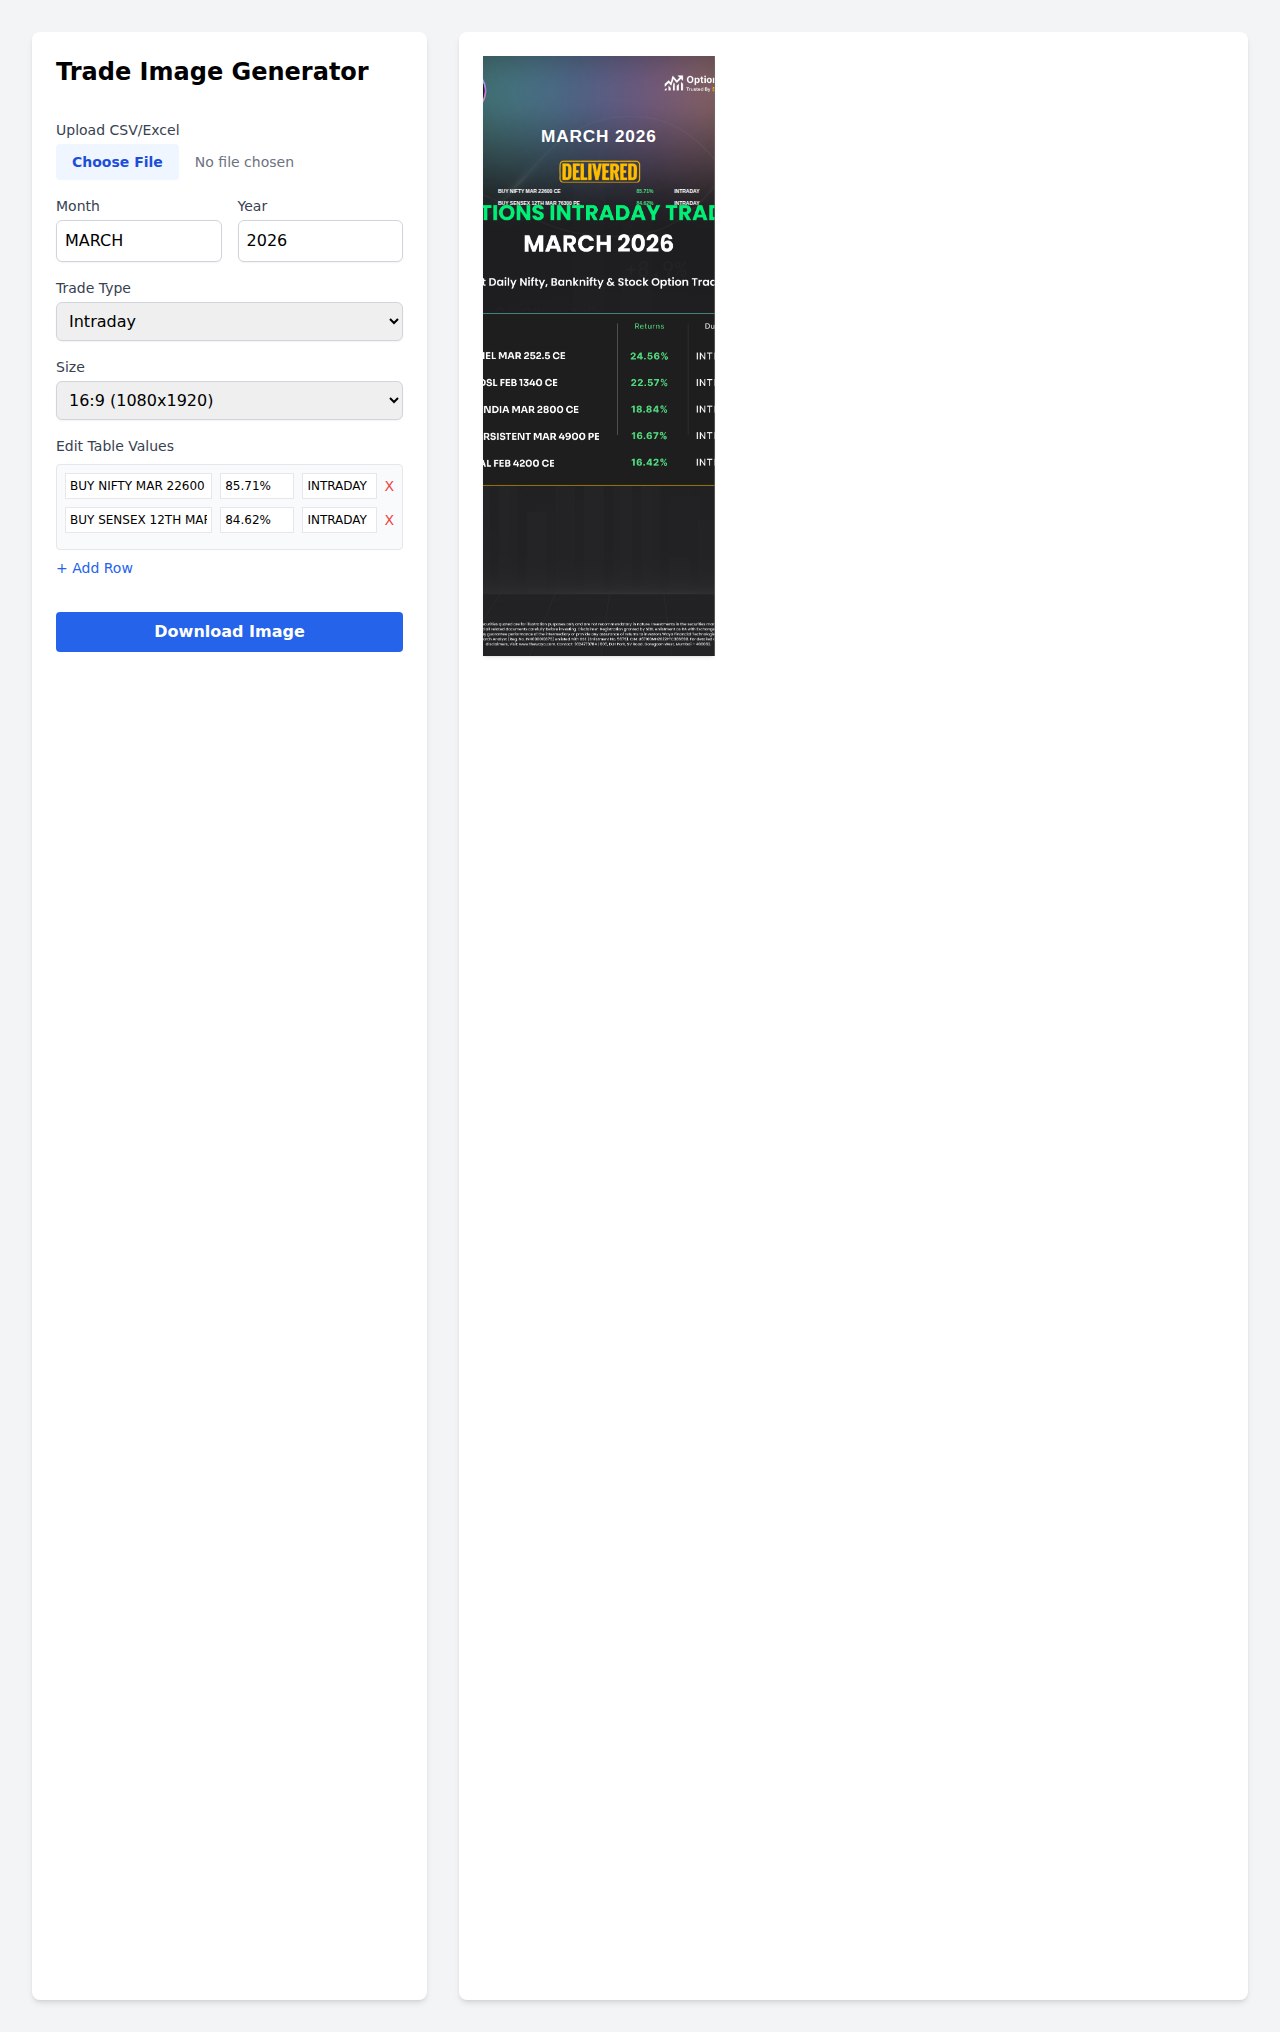
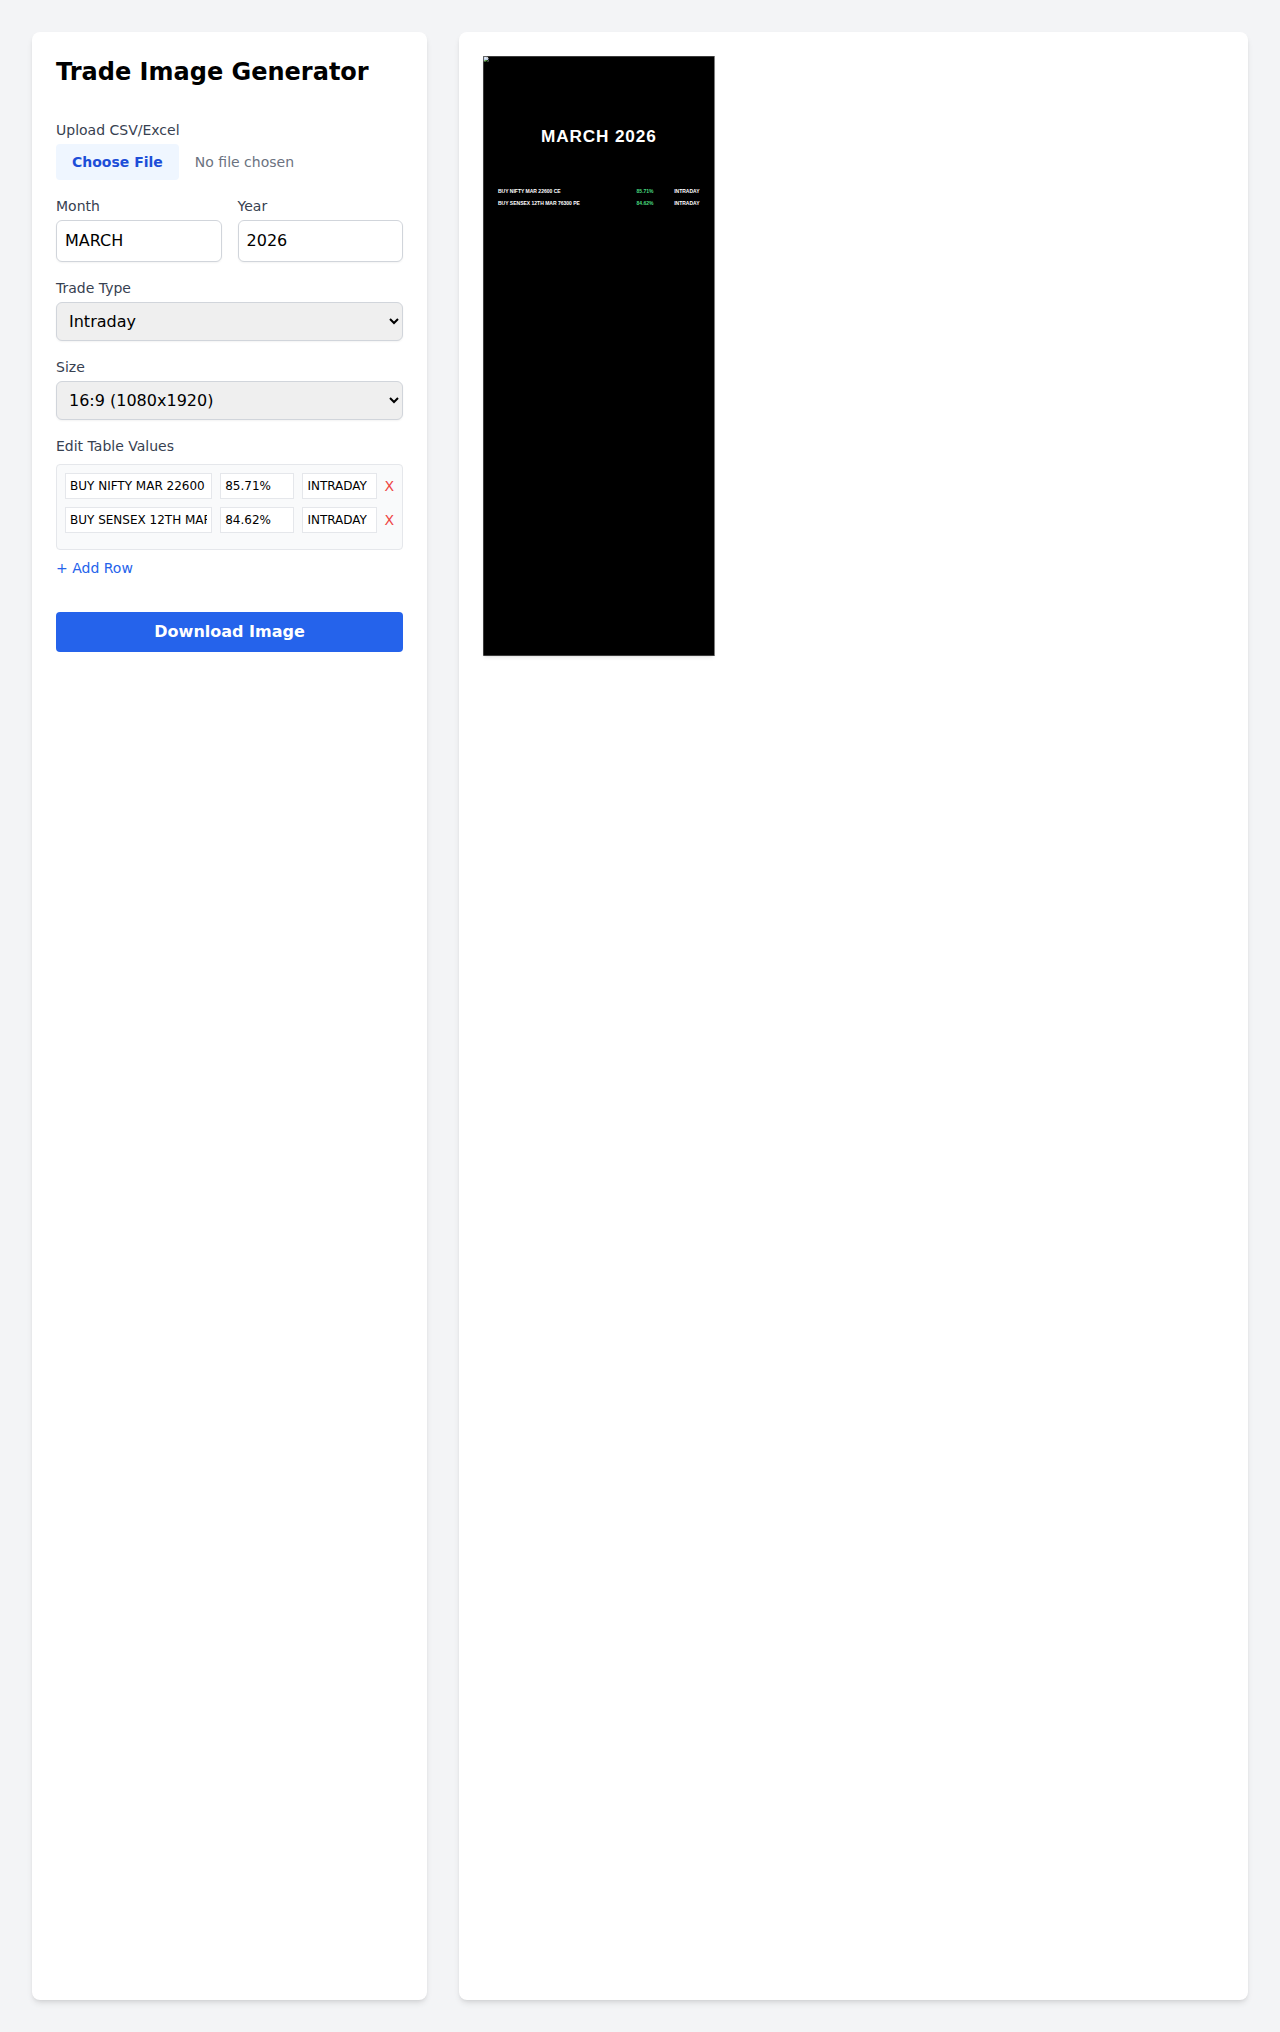
feat: Replace local templates with EdgeOne CDN URLs

Changed region(s): [[0.375, 0.0, 0.5625, 0.341]]

diff --git a/index.html b/index.html
@@ -80,7 +80,7 @@
     <!-- Preview Area -->
     <div class="w-full md:w-2/3 bg-white p-6 rounded-lg shadow-md overflow-auto flex justify-center items-center bg-gray-200">
         <div id="previewContainer" class="relative overflow-hidden shadow-lg bg-black" style="width: 1200px; height: 628px; transform: scale(0.6); transform-origin: top left;">
-            <img id="bgImage" src="templates/HZ 4.png" class="absolute top-0 left-0 w-full h-full object-cover">
+            <img id="bgImage" crossorigin="anonymous" src="https://concerned-green-tg5udyjc7d.edgeone.app/HZ%204.png" class="absolute top-0 left-0 w-full h-full object-cover">
 
             <!-- Dynamic Text Overlay -->
             <div id="monthYearText" class="absolute text-center font-bold text-white uppercase tracking-wider" style="top: 30%; left: 0; right: 0; font-size: 40px; font-family: 'Arial', sans-serif;">
@@ -101,28 +101,28 @@
     <script>
         const TEMPLATE_MAP = {
             "HZ": {
-                "1200x628": "templates/HZ 4.png",
-                "1080x1080": "templates/HZ -2.png",
-                "1080x1350": "templates/HZ-1.png",
-                "1080x1920": "templates/HZ-1, 9-16.png"
+                "1200x628": "https://concerned-green-tg5udyjc7d.edgeone.app/HZ%204.png",
+                "1080x1080": "https://concerned-green-tg5udyjc7d.edgeone.app/HZ%20-2.png",
+                "1080x1350": "https://concerned-green-tg5udyjc7d.edgeone.app/HZ-1.png",
+                "1080x1920": "https://concerned-green-tg5udyjc7d.edgeone.app/HZ-1,%209-16.png"
             },
             "INTRA": {
-                "1200x628": "templates/OP-3-INTRA.png",
-                "1080x1080": "templates/OP-2-INTRA.png",
-                "1080x1350": "templates/OP-1-INTRA.png",
-                "1080x1920": "templates/HZ-1, 9-16-1.png"
+                "1200x628": "https://concerned-green-tg5udyjc7d.edgeone.app/OP-3-INTRA.png",
+                "1080x1080": "https://concerned-green-tg5udyjc7d.edgeone.app/OP-2-INTRA.png",
+                "1080x1350": "https://concerned-green-tg5udyjc7d.edgeone.app/OP-1-INTRA.png",
+                "1080x1920": "https://concerned-green-tg5udyjc7d.edgeone.app/HZ-1,%209-16-1.png"
             },
             "BTST": {
-                "1200x628": "templates/OP-2-BTST-1.png",
-                "1080x1080": "templates/OP-2-BTST.png",
-                "1080x1350": "templates/OP-1-BTST.png",
-                "1080x1920": "templates/HZ-1, 9-16-2.png"
+                "1200x628": "https://concerned-green-tg5udyjc7d.edgeone.app/OP-2-BTST-1.png",
+                "1080x1080": "https://concerned-green-tg5udyjc7d.edgeone.app/OP-2-BTST.png",
+                "1080x1350": "https://concerned-green-tg5udyjc7d.edgeone.app/OP-1-BTST.png",
+                "1080x1920": "https://concerned-green-tg5udyjc7d.edgeone.app/HZ-1,%209-16-2.png"
             },
             "ALL": {
-                "1200x628": "templates/OP-3-ALL.png",
-                "1080x1080": "templates/OP-2-ALL.png",
-                "1080x1350": "templates/OP-1-ALL.png",
-                "1080x1920": "templates/HZ-1, 9-16-3.png"
+                "1200x628": "https://concerned-green-tg5udyjc7d.edgeone.app/OP-3-ALL.png",
+                "1080x1080": "https://concerned-green-tg5udyjc7d.edgeone.app/OP-2-ALL.png",
+                "1080x1350": "https://concerned-green-tg5udyjc7d.edgeone.app/OP-1-ALL.png",
+                "1080x1920": "https://concerned-green-tg5udyjc7d.edgeone.app/HZ-1,%209-16-3.png"
             }
         };
 
